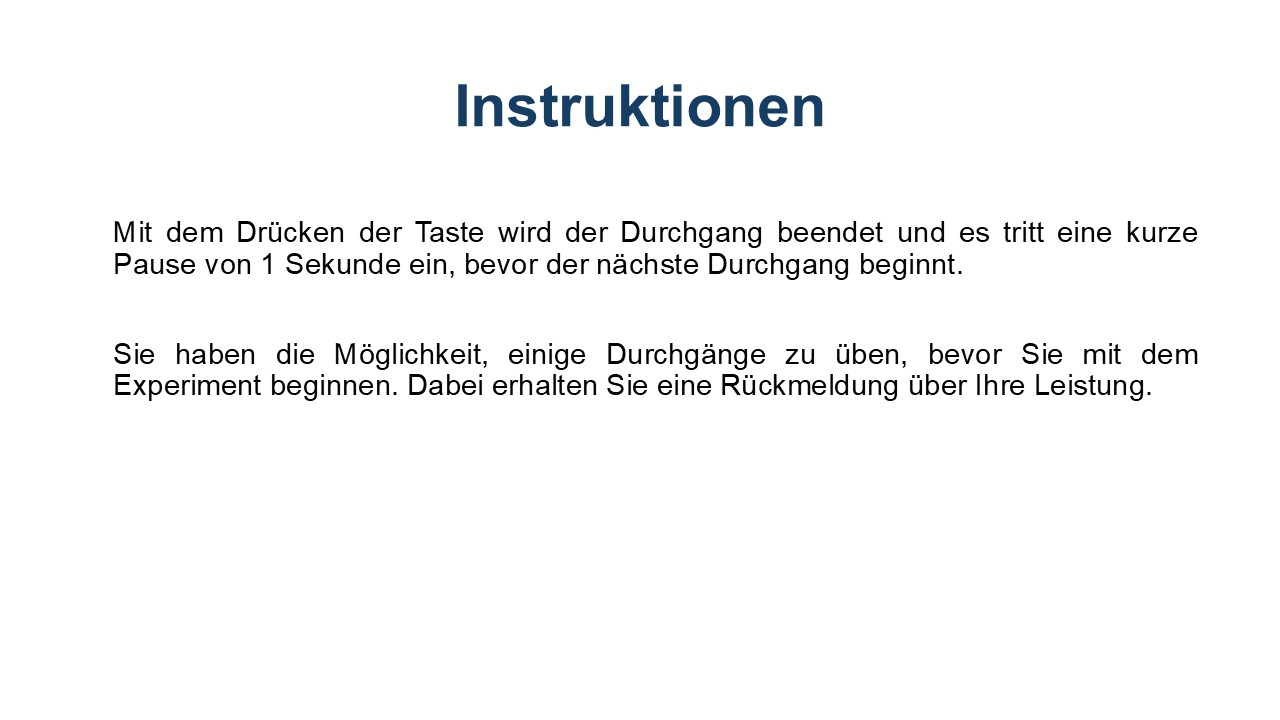
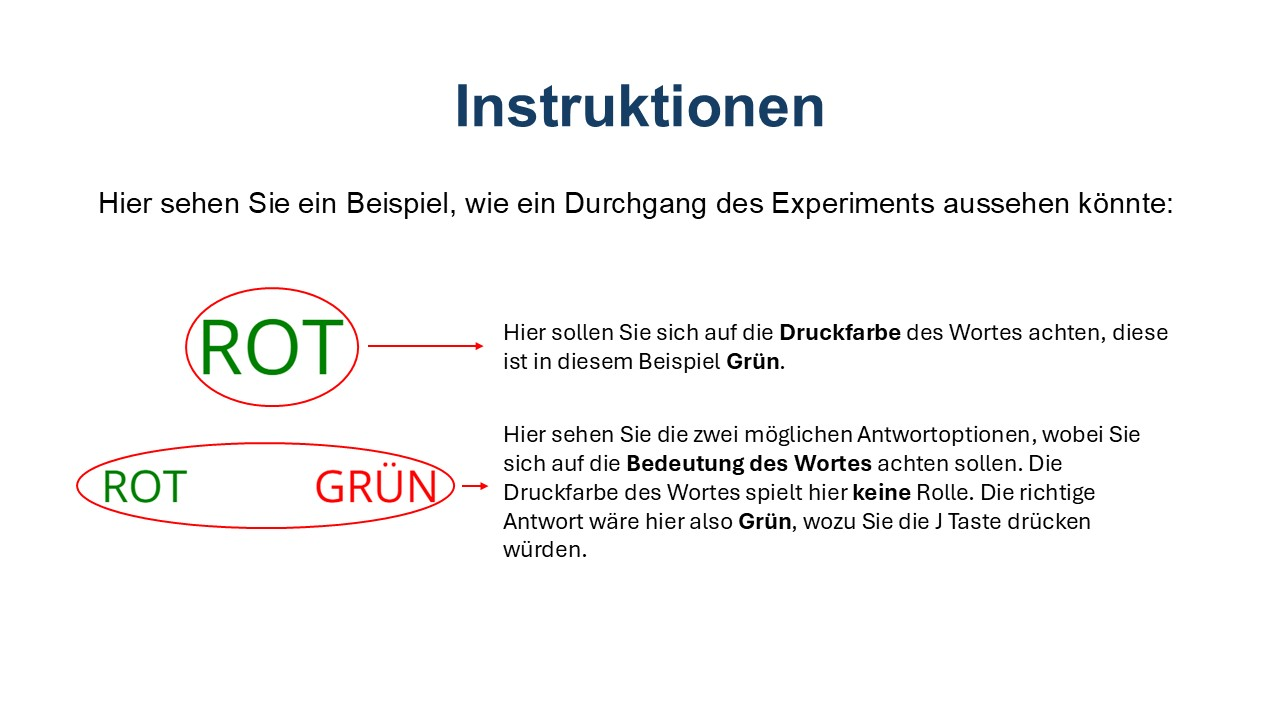
Farbwörter werden jetzt auf Deutsch angezeigt, Instructions mit Beispiel aus dem Experiment, Pausenscreen nach 60 Trials

Changed region(s): [[0.0625, 0.275, 0.9375, 0.5806], [0.0625, 0.5806, 0.9062, 0.7944]]

diff --git a/tasks/attention-control-squared/src/experiment.ts b/tasks/attention-control-squared/src/experiment.ts
@@ -30,7 +30,7 @@ import { instructions_screen } from "./instructions/InstrScreen";
 import { fingers_instructions_practice } from "./instructions/InstrScreen";
 import { fingers_instructions_exp } from "./instructions/InstrScreen";
 import { words } from "../assets/stimuli";
-
+import { break_screen } from "./instructions/breakScreen";
 
 // Import trials
 import { createStroopTrials } from "./trials/stroopTrialList"
@@ -48,7 +48,8 @@ import { createStroopTrials } from "./trials/stroopTrialList"
   }) {
   // Initialize a timeline to hold the trials
   var timeline: any[] = [];
-
+  // Farblabels aus settings.ts auf Deutsch
+  const colorLabels = expInfo.STROOP.colorLabels;
   // Preload assets
   const preload_screen = {
     type: preload,
@@ -64,7 +65,8 @@ import { createStroopTrials } from "./trials/stroopTrialList"
   console.log("Generated Stroop Trials:", stroop_trials);
   let practice_line: any[] = [];
   let exp_line: any[] = [];
-  
+  let expCount = 0;
+
   for (let i = 0; i < stroop_trials.length; i++) {
     const trial = stroop_trials[i];
   
@@ -72,14 +74,14 @@ import { createStroopTrials } from "./trials/stroopTrialList"
       type: jsPsychHtmlKeyboardResponse,
       stimulus: `
         <div style="font-size:48px;color:${trial.textColor.toLowerCase()};">
-          ${trial.targetWord}
+          ${colorLabels[trial.targetWord as keyof typeof colorLabels]}
         </div>
         <div style="display:flex;justify-content:center;margin-top:60px;font-size:28px;">
           <div style="color:${trial.leftColor.toLowerCase()};padding:0 40px">
-            ${trial.leftOption}
+            ${colorLabels[trial.leftOption as keyof typeof colorLabels]}
           </div>
           <div style="color:${trial.rightColor.toLowerCase()};padding:0 40px">
-            ${trial.rightOption}
+            ${colorLabels[trial.rightOption as keyof typeof colorLabels]}
           </div>
         </div>
       `,
@@ -108,6 +110,10 @@ import { createStroopTrials } from "./trials/stroopTrialList"
         trial_duration: expInfo.TIMING.FEEDBACK   
       });
     } else {
+      expCount++;
+      if (expCount === 61) {
+        exp_line.push(break_screen); //Break screen after 60 trials
+      }
       exp_line.push({
         type: jsPsychHtmlKeyboardResponse,
         stimulus: "<p style='font-size:40px;'>+</p>",

diff --git a/tasks/attention-control-squared/src/instructions/InstrScreen.ts b/tasks/attention-control-squared/src/instructions/InstrScreen.ts
@@ -13,7 +13,8 @@ export const instructions_screen = {
     ] : [
         '<img style="width: 100%; height: 80vh" src="./assets/images/instructions1.jpg"></img>',
         '<img style="width: 100%; height: 80vh" src="./assets/images/instructions2.jpg"></img>',
-        '<img style="width: 100%; height: 80vh" src="./assets/images/instructions3.jpg"></img>'
+        '<img style="width: 100%; height: 80vh" src="./assets/images/instructions3.jpg"></img>',
+        '<img style="width: 100%; height: 80vh" src="./assets/images/instructions4.jpg"></img>'
     ],
     button_label_next: BUTTON_INFO.continueButton[expInfo.LANG],
     button_label_previous: BUTTON_INFO.prevButton[expInfo.LANG],

diff --git a/tasks/attention-control-squared/src/instructions/breakScreen.ts b/tasks/attention-control-squared/src/instructions/breakScreen.ts
@@ -1,0 +1,14 @@
+import htmlButtonResponse from "@jspsych/plugin-html-button-response";
+import {SCREEN_INFO, BUTTON_INFO} from "../task-fun/text";
+import {expInfo} from "../settings";
+
+export const break_screen = {
+    type: htmlButtonResponse,
+    stimulus: function (){
+        return SCREEN_INFO.blockBreak!(1,2, expInfo.LANG) 
+    },
+    choices: function () {
+        return BUTTON_INFO.continueButton[expInfo.LANG];
+    },
+    data: { screen_id: "break" },
+};

diff --git a/tasks/attention-control-squared/src/task-fun/text.ts b/tasks/attention-control-squared/src/task-fun/text.ts
@@ -53,6 +53,13 @@ export const SCREEN_INFO = {
           <p class="fb-text">Press the space bar to skip the break</p>
           <br>
         </div>`;
+      case "de":
+        return `<div class='main'>
+        <h1 class='title'>Machen Sie eine Pause</h1>
+        <p class='fb-text'>
+          Sie sind in der Hälfte des Experiments angekommen. Wenn Sie bereit sind, drücken sie auf "Weiter".
+        </p>
+        </div>`
     }
   },
 

diff --git a/tasks/attention-control-squared/src/settings.ts b/tasks/attention-control-squared/src/settings.ts
@@ -37,6 +37,11 @@ export const expInfo = {
     nRepsPerCondition: 10, // Anzahl Wiederholungen pro (word x targetCongruency x responseCongruency)-Kombination
     nPracticeTrials: 10, // Anzahl Practice-Trials
     choices: ["d", "j"] as const, // erlaubte Antworttasten
+    colorLabels: {
+      RED: "ROT",
+      GREEN: "GRÜN",
+      BLUE: "BLAU"
+    } as Record<"RED"|"GREEN"|"BLUE",string>
   },
 
   // settings for each trial
